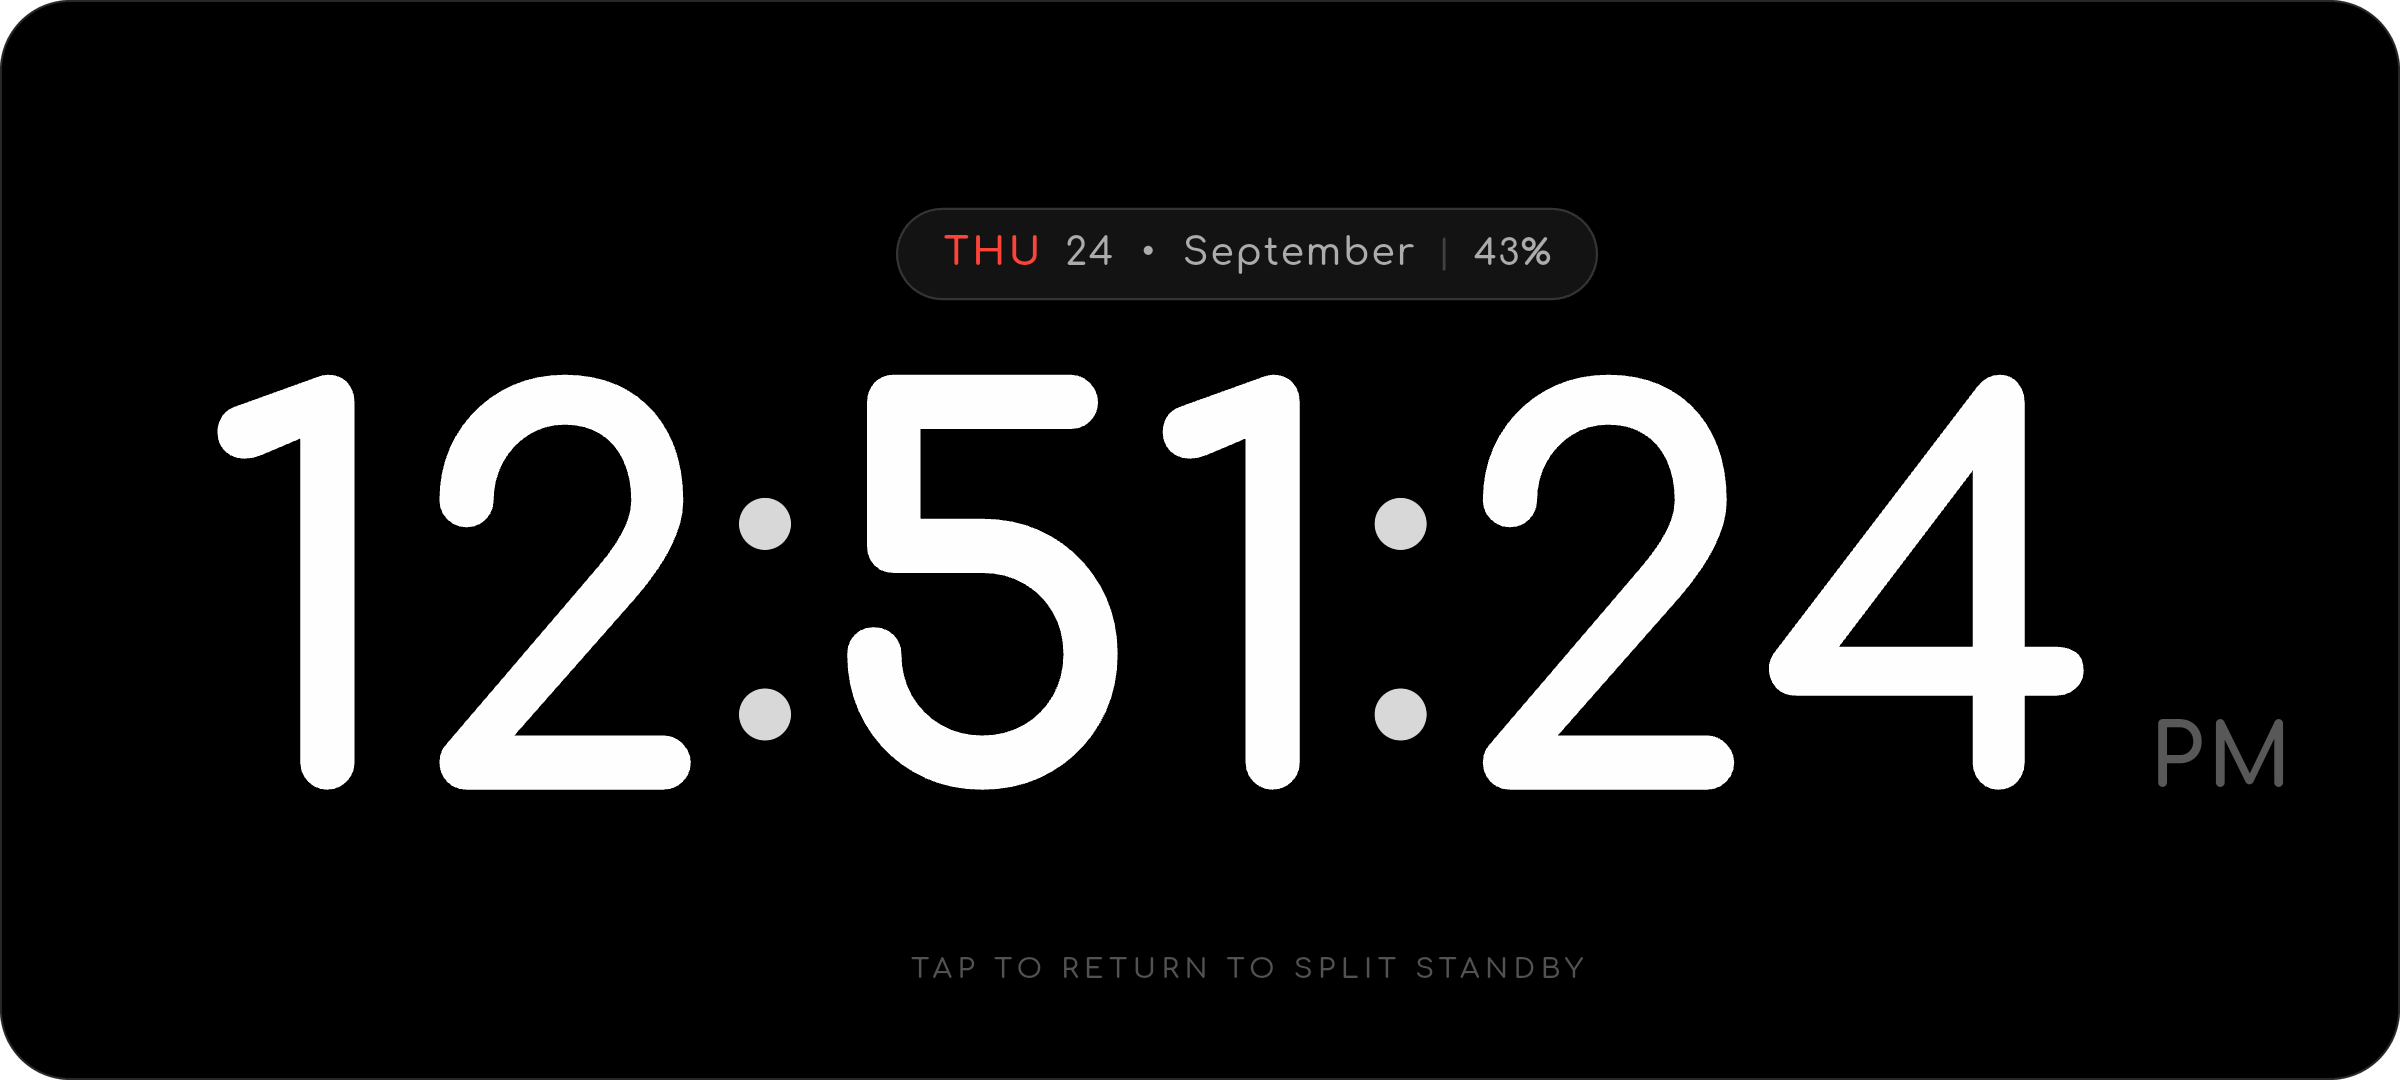
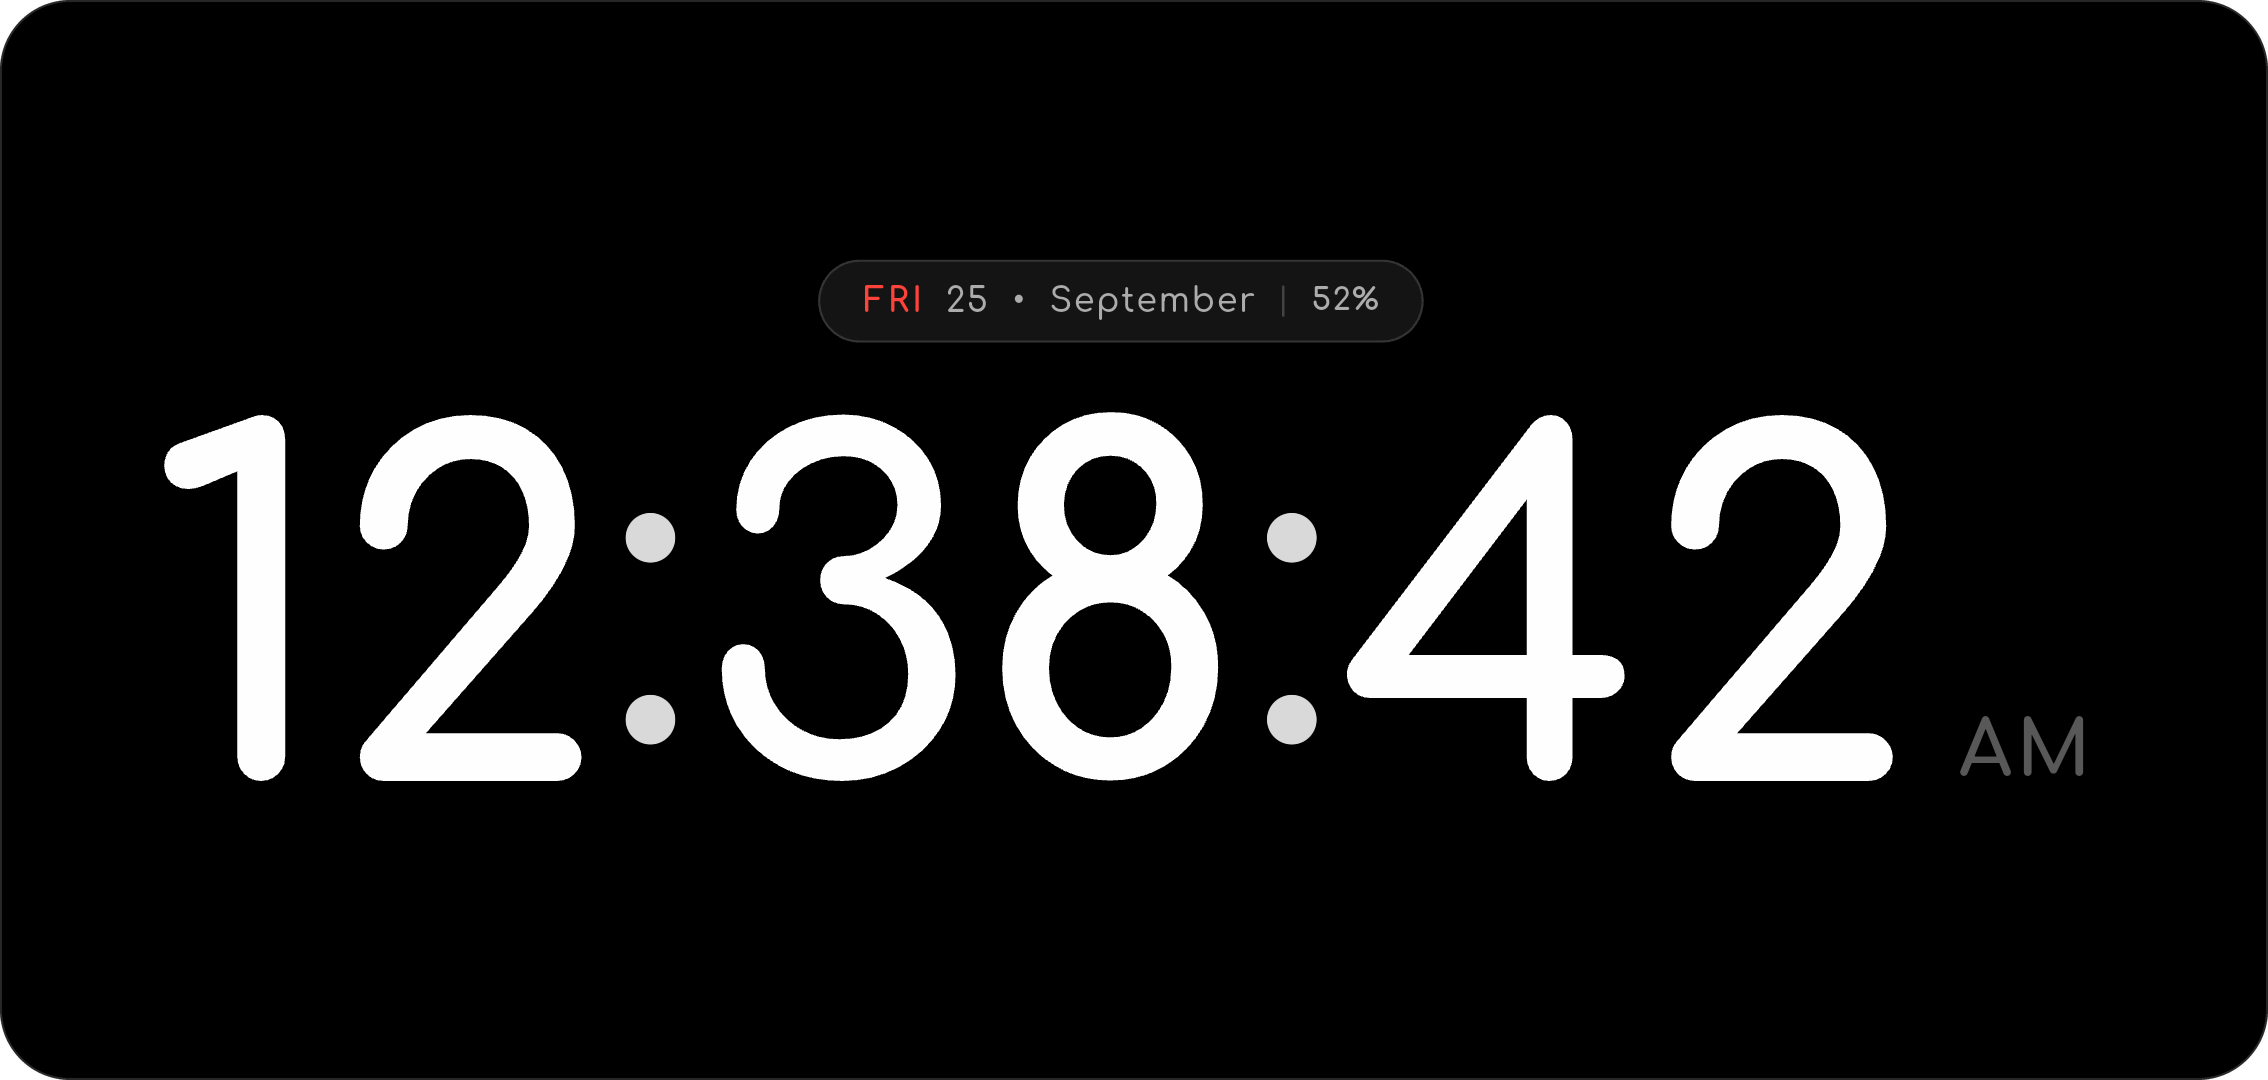
fix: support display cutouts in Android activity and update screenshots and documentation

diff --git a/android/app/src/main/kotlin/com/desktune/desktune/MainActivity.kt b/android/app/src/main/kotlin/com/desktune/desktune/MainActivity.kt
@@ -66,6 +66,13 @@ class MainActivity : FlutterActivity(), MethodChannel.MethodCallHandler {
         val savedBrightness = prefs.getFloat("desk_brightness", 0.7f)
         val layoutParams = window.attributes
         layoutParams.screenBrightness = savedBrightness.coerceIn(0.01f, 1.0f)
+        // By default Android shrinks the window to avoid a camera cut-out, which
+        // leaves it off-centre on the screen. Draw under the cut-out instead; the
+        // Flutter layout then applies the cut-out inset equally on both sides.
+        if (Build.VERSION.SDK_INT >= Build.VERSION_CODES.P) {
+            layoutParams.layoutInDisplayCutoutMode =
+                WindowManager.LayoutParams.LAYOUT_IN_DISPLAY_CUTOUT_MODE_SHORT_EDGES
+        }
         window.attributes = layoutParams
     }
 

diff --git a/README.md b/README.md
@@ -6,7 +6,7 @@
 </p>
 
 <p align="center">
-  <img src="docs/screenshots/split-view.png" alt="DeskTune split view in landscape: a large clock on the left, a now-playing card with playback controls and brightness and volume sliders on the right" width="900"><br>
+  <img src="docs/screenshots/split-view.png" alt="DeskTune split view in landscape: a large clock on the left, and on the right a now-playing card with playback controls, the player's glass app icon, and brightness and volume sliders" width="900"><br>
   <sub>Split view: the clock on the left, what's playing on the right.</sub>
 </p>
 
